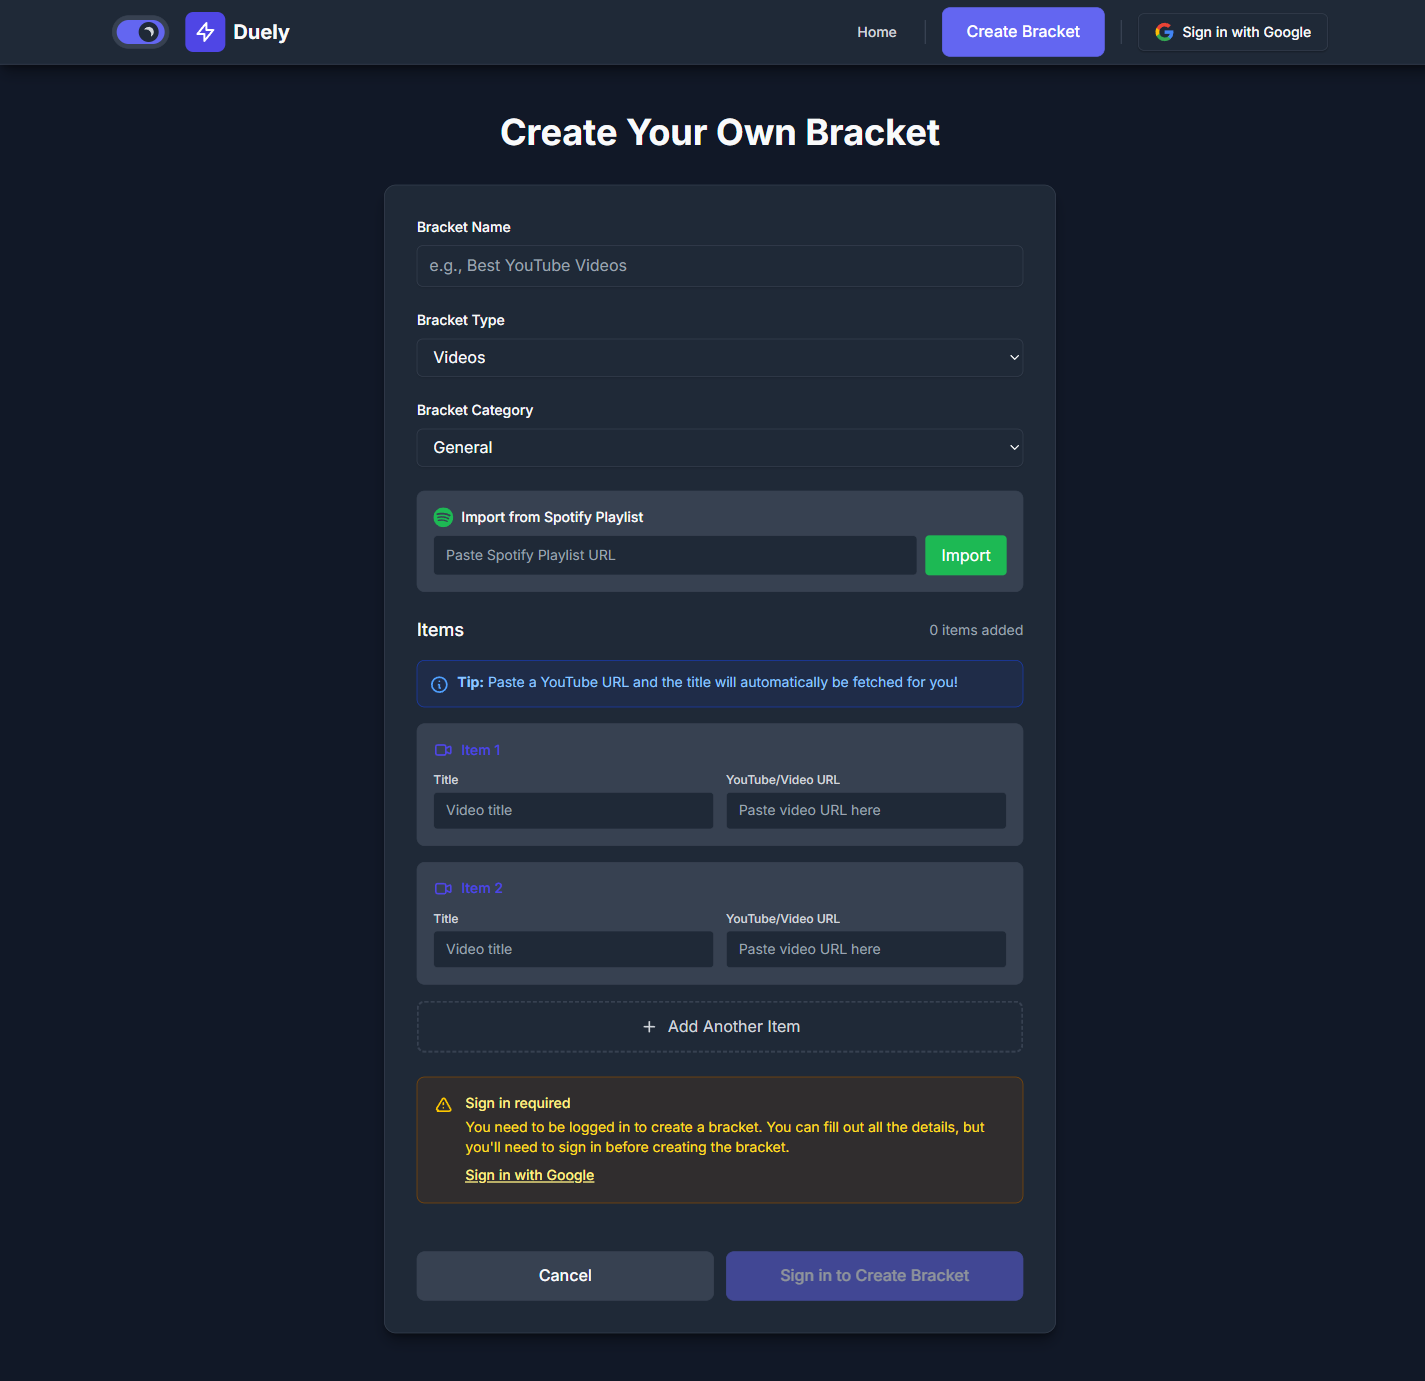
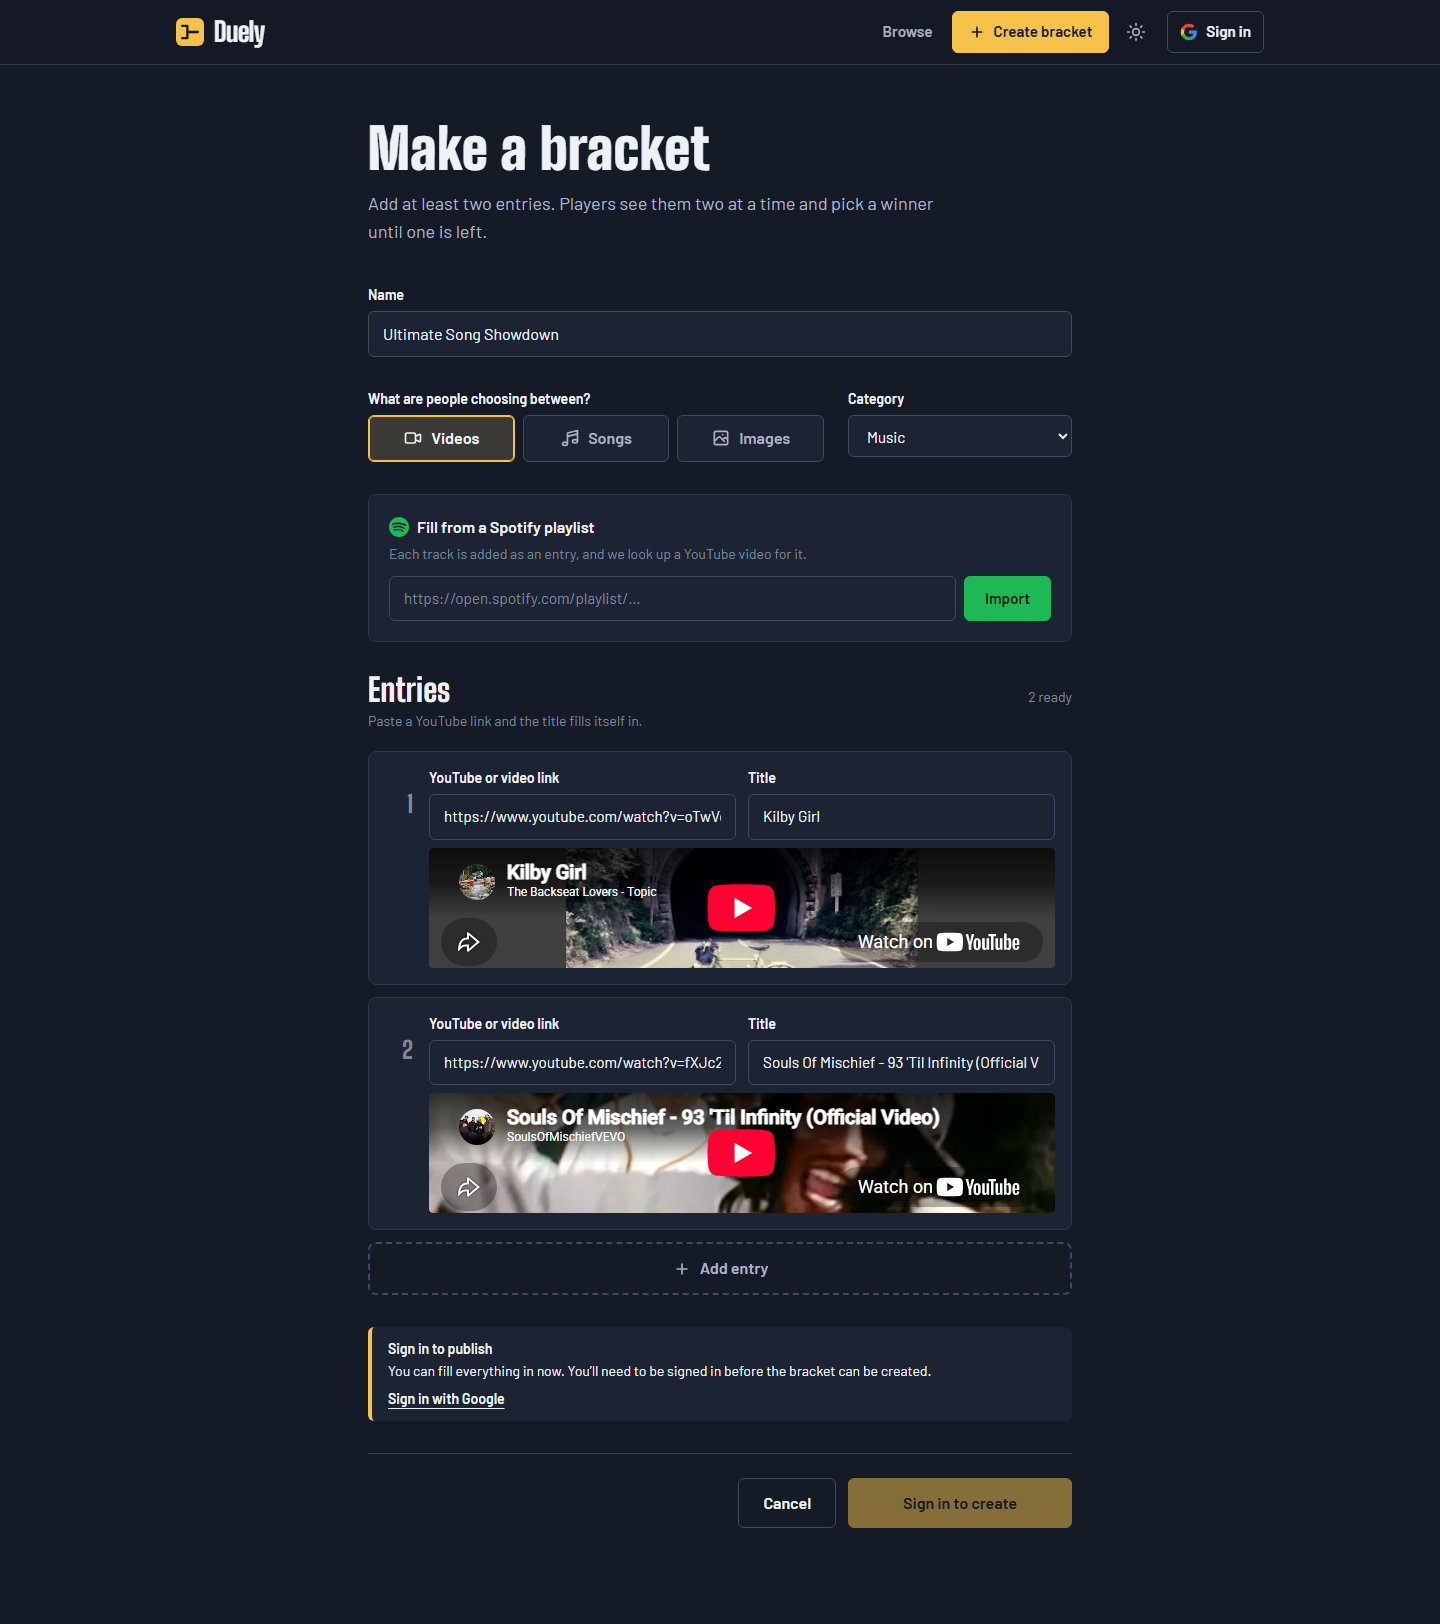
Update README screenshots for the redesigned UI

diff --git a/README.md b/README.md
@@ -38,7 +38,7 @@
 - **Community rankings.** Every finished battle is saved. The results page shows your individual battles, your personal averages and the global leaderboard, plus optional names and comments.
 - **Guests welcome.** Anyone can play and submit results without an account. Signing in with Google lets you create brackets and keeps your history across devices.
 - **Host it for friends.** One script serves the app to your local network or puts it on the internet through a Cloudflare tunnel.
-- Dark mode, responsive layout and Framer Motion animations.
+- Light and dark themes, a responsive layout down to phone width, and keyboard-friendly battles.
 
 ## Engineering highlights
 
